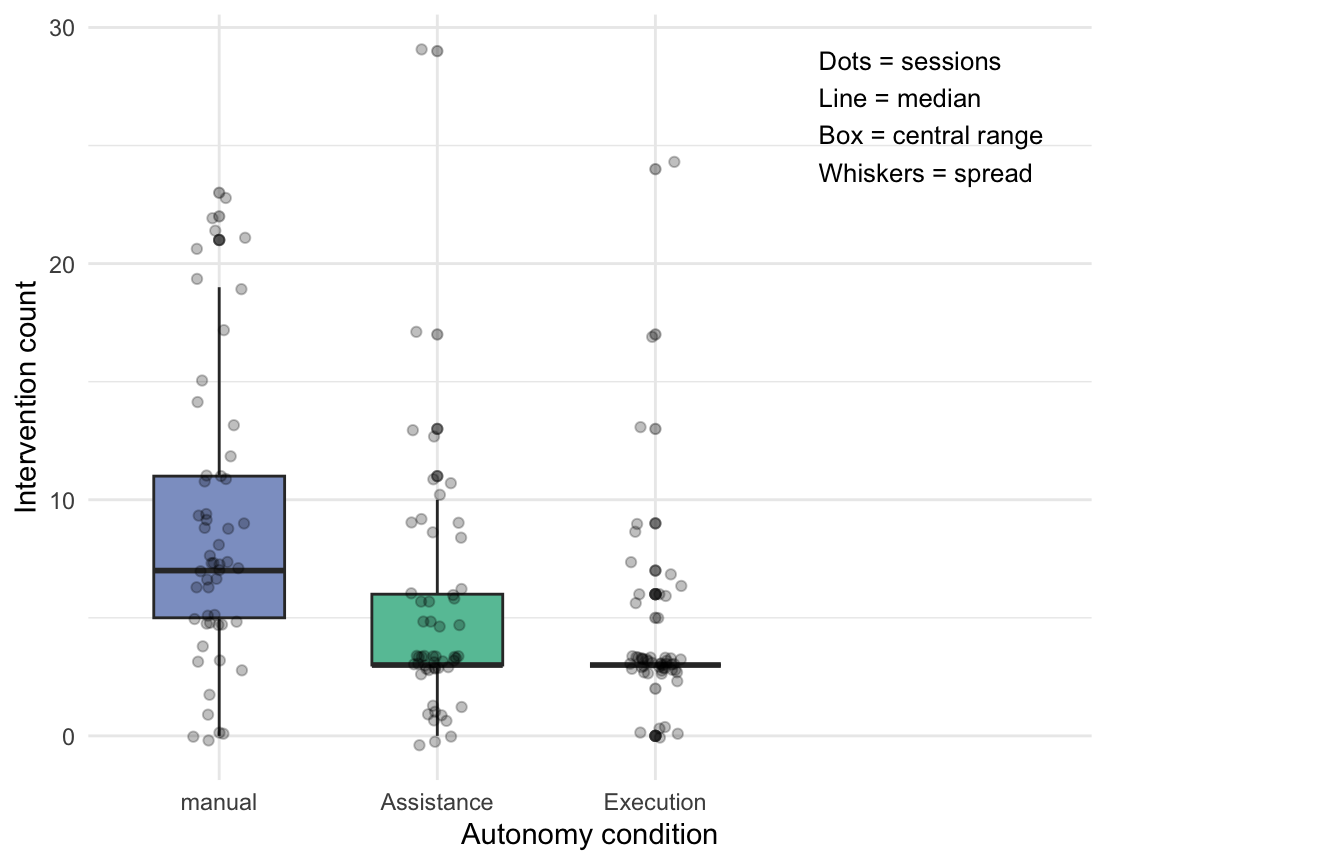
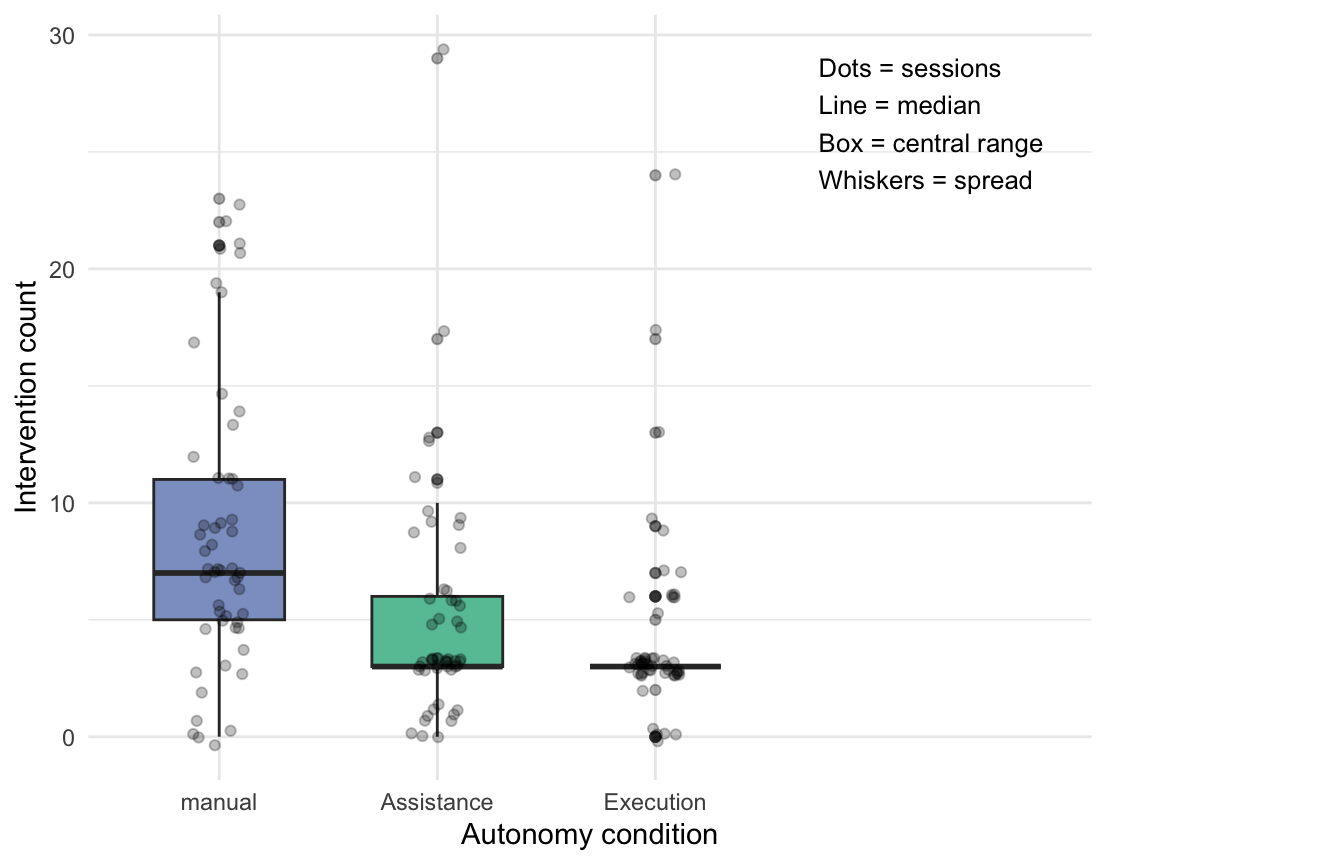
revising participants table

diff --git a/index.html b/index.html
@@ -210,7 +210,7 @@ ul.task-list li input[type="checkbox"] {
 <div class="cell">
 <div class="cell-output-display">
 <table class="caption-top table table-sm table-striped small">
-<caption>Table 1. Number of participants (including repeated entries) per condition</caption>
+<caption>Table 1. Number of participants per condition</caption>
 <thead>
 <tr class="header">
 <th style="text-align: left;">Condition</th>
@@ -220,7 +220,7 @@ ul.task-list li input[type="checkbox"] {
 <tbody>
 <tr class="odd">
 <td style="text-align: left;">Total</td>
-<td style="text-align: right;">228</td>
+<td style="text-align: right;">231</td>
 </tr>
 <tr class="even">
 <td style="text-align: left;">Assistance</td>
@@ -244,14 +244,34 @@ ul.task-list li input[type="checkbox"] {
 </div>
 <p>An important issue in the dataset is the presence of the “Information” mode, which theoretically should not exist as an active interaction condition. Therefore, it is necessary to investigate why this mode appears in the logs and what type of events have been recorded under it. To assess this, a validity check was conducted by filtering all entries associated with the “Information” mode and inspecting their session IDs and logged actions.</p>
 <div class="cell">
-<div class="cell-output cell-output-stdout">
-<pre><code># A tibble: 4 × 2
-  session_id action   
-  &lt;chr&gt;      &lt;chr&gt;    
-1 S-7QR92FMR PAGE_VIEW
-2 S-KY2JLRYQ PAGE_VIEW
-3 S-NT977W23 PAGE_VIEW
-4 S-OQKZ8TJ1 PAGE_VIEW</code></pre>
+<div class="cell-output-display">
+<table class="caption-top table table-sm table-striped small">
+<caption>Table 2. Log entries recorded under the Information condition.</caption>
+<thead>
+<tr class="header">
+<th style="text-align: left;">Session ID</th>
+<th style="text-align: left;">Action</th>
+</tr>
+</thead>
+<tbody>
+<tr class="odd">
+<td style="text-align: left;">S-7QR92FMR</td>
+<td style="text-align: left;">PAGE_VIEW</td>
+</tr>
+<tr class="even">
+<td style="text-align: left;">S-KY2JLRYQ</td>
+<td style="text-align: left;">PAGE_VIEW</td>
+</tr>
+<tr class="odd">
+<td style="text-align: left;">S-NT977W23</td>
+<td style="text-align: left;">PAGE_VIEW</td>
+</tr>
+<tr class="even">
+<td style="text-align: left;">S-OQKZ8TJ1</td>
+<td style="text-align: left;">PAGE_VIEW</td>
+</tr>
+</tbody>
+</table>
 </div>
 </div>
 <p>The inspection showed that the “Information” mode contained only four log entries, all of which were recorded as <code>PAGE_VIEW</code> events. This indicates that these entries reflect passive page access rather than meaningful task-related interaction. Therefore, the “Information” mode was treated as invalid and excluded from further analysis to ensure data quality, cleanliness and consistency.</p>
